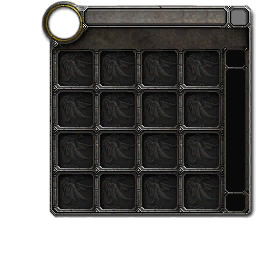
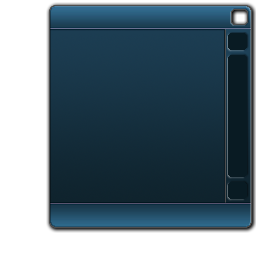
* Updated GUI graphics to new unified style.
* GUI now uses Ultima cursor by default.

* Container.cs now draws item icons with the new unified style.

* Fixed a bug where containers in the game (such as bookshelves) did not properly expose their container object and would raise an exception when the server tried to add items to them. (Issue 8)

* Occasionally, the client would run out of room when decompressing large packets. To fix this problem, I increased the maximum packet size in SocketClient.cs. (Issue 9)

diff --git a/UltimaXNA/UltimaXNA/Code/GUI/Windows/Container.cs b/UltimaXNA/UltimaXNA/Code/GUI/Windows/Container.cs
@@ -7,7 +7,7 @@ namespace UltimaXNA.GUI
 {
     class Window_Container : Window
     {
-        private Vector2 m_Size = new Vector2(215, 217);
+        private Vector2 m_Size = new Vector2(215, 233);
         private Vector2 m_BGOffset = new Vector2(215 - 256 + 2, -1);
         private GameObjects.Container m_Container;
         private int m_LastContainerUpdated;
@@ -31,20 +31,20 @@ namespace UltimaXNA.GUI
 
             m_MyForm.Controls.Add(new PictureBox("picBG", m_BGOffset, @"GUI\CONTAINERFRAME\UI-Bag-4x4.png", 256, 256, 0));
 
-            m_MyForm.Controls.Add(new Label("lblContainer", new Vector2(50, 7f), "ContainerFrame", Color.TransparentBlack, Color.White, 128, Label.Align.Left));
+            m_MyForm.Controls.Add(new Label("lblContainer", new Vector2(16f, 7f), "ContainerFrame", Color.TransparentBlack, Color.White, 128, Label.Align.Left));
             m_MyForm["lblContainer"].FontName = "ArialNarrow10";
 
-            m_MyForm.Controls.Add(new CustomButton("btnClose", new Vector2(185, 0), new Rectangle(6, 7, 19, 18),
+            m_MyForm.Controls.Add(new CustomButton("btnClose", new Vector2(184, -1), new Rectangle(6, 7, 19, 18),
                 @"GUI\COMMON\UI-Panel-MinimizeButton-Up.png", @"GUI\COMMON\UI-Panel-MinimizeButton-Down.png",
                 @"GUI\COMMON\UI-Panel-MinimizeButton-Disabled.png", @"GUI\COMMON\UI-Panel-MinimizeButton-Highlight.png"));
             m_MyForm.Controls["btnClose"].OnRelease = btnClose_OnRelease;
 
-            m_MyForm.Controls.Add(new CustomButton("btnScrollUp", new Vector2(181, 42), new Rectangle(6, 7, 19, 18),
+            m_MyForm.Controls.Add(new CustomButton("btnScrollUp", new Vector2(183, 25), new Rectangle(6, 7, 19, 18),
                 @"GUI\SCROLLBAR\UI-ScrollBar-ScrollUpButton-Up.png", @"GUI\SCROLLBAR\UI-ScrollBar-ScrollUpButton-Down.png",
                 @"GUI\SCROLLBAR\UI-ScrollBar-ScrollUpButton-Disabled.png", @"GUI\SCROLLBAR\UI-ScrollBar-ScrollUpButton-Highlight.png"));
             m_MyForm.Controls["btnScrollUp"].OnRelease = btnScrollUp_OnRelease;
 
-            m_MyForm.Controls.Add(new CustomButton("btnScrollDown", new Vector2(181, 186), new Rectangle(6, 7, 19, 18),
+            m_MyForm.Controls.Add(new CustomButton("btnScrollDown", new Vector2(183, 174), new Rectangle(6, 7, 19, 18),
                 @"GUI\SCROLLBAR\UI-ScrollBar-ScrollDownButton-Up.png", @"GUI\SCROLLBAR\UI-ScrollBar-ScrollDownButton-Down.png",
                 @"GUI\SCROLLBAR\UI-ScrollBar-ScrollDownButton-Disabled.png", @"GUI\SCROLLBAR\UI-ScrollBar-ScrollDownButton-Highlight.png"));
             m_MyForm.Controls["btnScrollDown"].OnRelease = btnScrollDown_OnRelease;
@@ -96,7 +96,7 @@ namespace UltimaXNA.GUI
                     string iBtnName = "btnInv" + i; 
                     m_MyForm.Remove(iBtnName);
                     Vector2 iPosition = new Vector2();
-                    iPosition.Y = (int)(i / 4) * 40 + 49;
+                    iPosition.Y = (int)(i / 4) * 41 + 34;
                     iPosition.X = (i - ((int)(i / 4)) * 4) * 42 + 17;
                     m_MyForm.Controls.Add(new CustomButton(iBtnName, iPosition, new Rectangle(0, 0, 32, 32),
                     null, null, null, null, iScale));
@@ -113,7 +113,7 @@ namespace UltimaXNA.GUI
             else
                 ((CustomButton)m_MyForm.Controls["btnScrollUp"]).Disabled = false;
 
-            if (m_ScrollY == m_MaxScrollY)
+            if (m_ScrollY >= m_MaxScrollY)
                 ((CustomButton)m_MyForm.Controls["btnScrollDown"]).Disabled = true;
             else
                 ((CustomButton)m_MyForm.Controls["btnScrollDown"]).Disabled = false;
@@ -131,22 +131,26 @@ namespace UltimaXNA.GUI
             {
                 iTextureArt = DataLocal.Art.GetStaticTexture(nItemID, FormCollection.Graphics.GraphicsDevice);
             }
-            Texture2D iTextureFrame = Texture2D.FromFile(iDevice, FormCollection.ContentManager.RootDirectory + @"GUI\COMMON\UI-Quickslot2.png");
+            Texture2D iTextureBorder = Texture2D.FromFile(iDevice,
+                FormCollection.ContentManager.RootDirectory + @"GUI\COMMON\UI-Slot-Border.png");
+            Texture2D iTextureBG = Texture2D.FromFile(iDevice,
+                FormCollection.ContentManager.RootDirectory + @"GUI\COMMON\UI-Slot-BG.png");
             int iWidth, iHeight;
             DataLocal.Art.GetStaticDimensions(nItemID, out iWidth, out iHeight);
 
 
             float iScaleUp = 1f;
+            float iDestSize = 64f;
             if (iTextureArt != null)
             {
                 if (iTextureArt.Width > iTextureArt.Height)
-                    iScaleUp = 64f / iTextureArt.Height;
+                    iScaleUp = iDestSize / iTextureArt.Height;
                 else
-                    iScaleUp = 64f / iTextureArt.Width;
+                    iScaleUp = iDestSize / iTextureArt.Width;
             }
 
             
-            RenderTarget2D renderTarget = new RenderTarget2D(iDevice, 64, 64, 1, iDevice.DisplayMode.Format);
+            RenderTarget2D renderTarget = new RenderTarget2D(iDevice, 64, 64, 1, SurfaceFormat.Color);
             iDevice.SetRenderTarget(0, renderTarget);
 
             iDevice.Clear(Color.TransparentBlack);
@@ -154,17 +158,20 @@ namespace UltimaXNA.GUI
             {
                 sprite.Begin();
 
+                sprite.Draw(iTextureBG, new Rectangle(0, 0, 63, 63), new Rectangle(12, 12, 39, 39), Color.White);
+
                 if (iTextureArt != null)
                 {
                     sprite.Draw(iTextureArt,
                         new Rectangle(
-                            -(int)((iTextureArt.Width * iScaleUp) - 64) / 2,
-                            -(int)(((iTextureArt.Height - 6) * iScaleUp) - 64) / 2,
+                            -(int)((iTextureArt.Width * iScaleUp) - iDestSize) / 2,
+                            -(int)(((iTextureArt.Height - 6) * iScaleUp) - iDestSize) / 2,
                             (int)(iTextureArt.Width * iScaleUp),
                             (int)(iTextureArt.Height * iScaleUp)),
                         Color.White);
                 }
-                sprite.Draw(iTextureFrame, new Rectangle(0, 0, 64, 64), new Rectangle(12, 12, 39, 39), Color.White);
+
+                sprite.Draw(iTextureBorder, new Rectangle(0, 0, 63, 63), new Rectangle(12, 12, 39, 39), Color.White);
                 
                 sprite.End();
             }

diff --git a/UltimaXNA/UltimaXNA/Code/Network/GameClient.cs b/UltimaXNA/UltimaXNA/Code/Network/GameClient.cs
@@ -823,10 +823,10 @@ namespace UltimaXNA.Network
             int iGUID = nPacket.ReadInt();
             int iGumpModel = nPacket.ReadUShort();
 
-            GameObjects.BaseObject iObject = m_GameObjectsService.GetContainerObject(iGUID);
             // Only try to open a container of type Container. Note that GameObjects can
-            // have container objects and will expose them. When called through GetContainerObject(int)
+            // have container objects and will expose them when called through GetContainerObject(int)
             // instead of GetObject(int).
+            GameObjects.BaseObject iObject = m_GameObjectsService.GetContainerObject(iGUID); // Changed from GetObject(iGUID) to GetContainerObject(iGUID) per issue8 (http://code.google.com/p/ultimaxna/issues/detail?id=8) --ZDW 6/14/2009
             if (iObject.ObjectType == UltimaXNA.GameObjects.ObjectType.Container)
             {
                 m_GUIService.Container_Open(iObject, iGumpModel);
@@ -857,7 +857,7 @@ namespace UltimaXNA.Network
                 // Add the item...
                 GameObjects.Item iObject = m_AddItem(iGUID, iItemID, iHue, iContainerGUID, iAmount);
                 // ... and add it the container contents of the container.
-                GameObjects.Container iContainerObject = (GameObjects.Container)m_GameObjectsService.GetObject((int)iContainerGUID);
+                GameObjects.Container iContainerObject = (GameObjects.Container)m_GameObjectsService.GetContainerObject((int)iContainerGUID);
                 iContainerObject.AddToContents(iObject);
             }
         }

diff --git a/UltimaXNA/UltimaXNA/Code/GUI/GUI.cs b/UltimaXNA/UltimaXNA/Code/GUI/GUI.cs
@@ -51,7 +51,8 @@ namespace UltimaXNA.GUI
             formCollection = new FormCollection(Game.Window, Game.Services, ref graphics, @"..\..\res\");
             spriteBatch = new SpriteBatch(Game.GraphicsDevice);
             mDrawForms = true;
-            surfaceCursors = Texture2D.FromFile(graphics.GraphicsDevice, @"..\..\res\GUI\cursors.png");
+            surfaceCursors = DataLocal.Art.GetStaticTexture(8307, graphics.GraphicsDevice);
+                // Texture2D.FromFile(graphics.GraphicsDevice, @"..\..\res\GUI\cursors.png");
 
             fontArial14 = Game.Content.Load<SpriteFont>(@"fonts\ArialNarrow10");
         }
@@ -70,7 +71,7 @@ namespace UltimaXNA.GUI
             base.Update(gameTime);
 
             FormCollection.Cursor.Texture = surfaceCursors;
-            FormCollection.Cursor.SourceRect = new Rectangle(0, 32, 32, 32);
+            FormCollection.Cursor.SourceRect = new Rectangle(1, 1, 31, 26);
             FormCollection.Cursor.HasShadow = true;
 
             // First update our collection of windows.

diff --git a/UltimaXNA/UltimaXNA/Code/Network/SocketClient.cs b/UltimaXNA/UltimaXNA/Code/Network/SocketClient.cs
@@ -29,7 +29,7 @@ namespace UltimaXNA.Network
         public readonly int id;                             // unique id for use with the server
         public bool disconnected = false;                   // To keep track if we have already disconnected.
 
-        private const int m_OutBufferSize = 16388;
+        private const int m_OutBufferSize = 32776;          // Increased to 32kb from 16kb issue9 (http://code.google.com/p/ultimaxna/issues/detail?id=9) --ZDW 6/14/2009
         private byte[] outdata = new byte[m_OutBufferSize];
 
         private bool m_AppendNextMessage = false;
